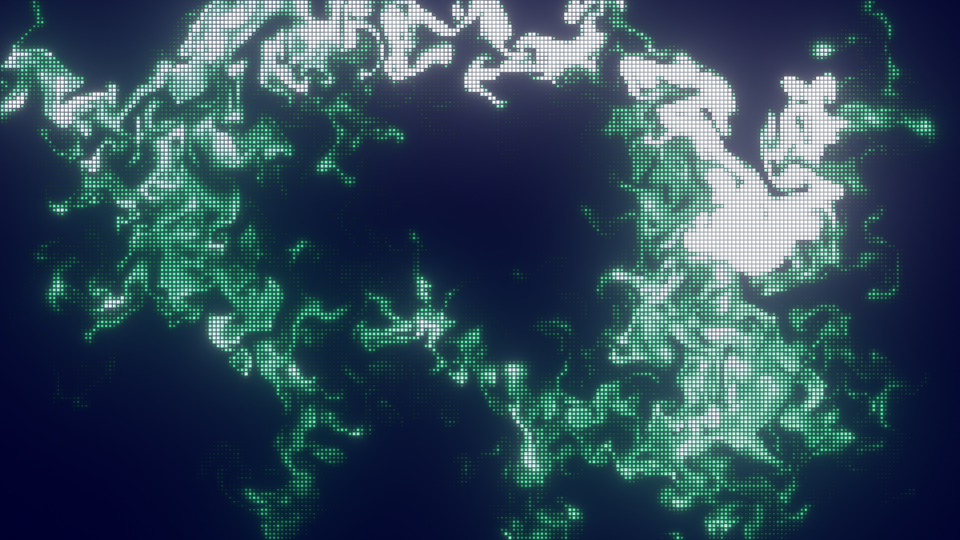
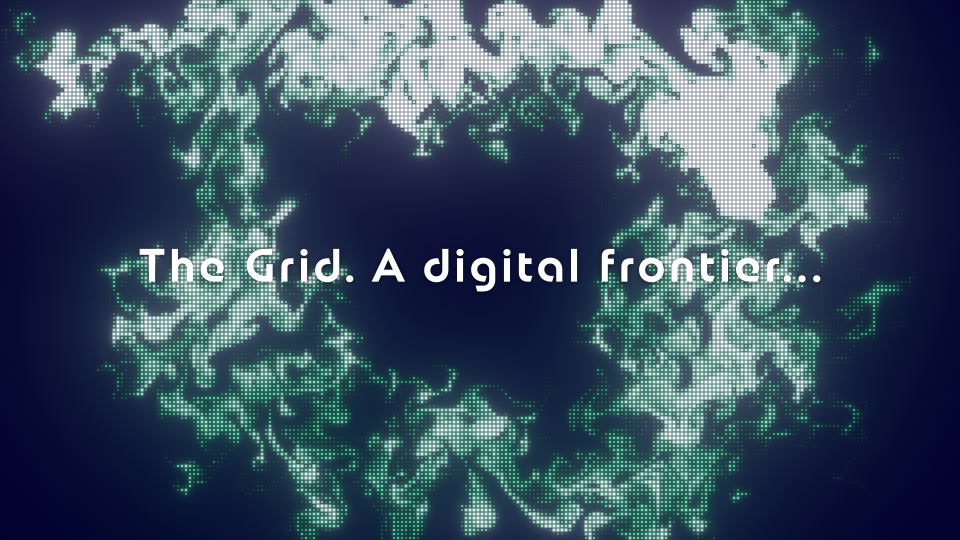
Replace the Grid style render

diff --git a/index.html b/index.html
@@ -248,7 +248,7 @@
                 <figcaption>A burst of dust as a text layer slams down</figcaption>
             </figure>
             <figure>
-                <img src="images/grid.png" alt="Swirling smoke drawn as a grid of small glowing green squares on deep blue" loading="lazy">
+                <img src="images/grid.png" alt="Swirling smoke drawn as a grid of small glowing green squares on deep blue, around the words The Grid. A digital frontier..." loading="lazy">
                 <figcaption>Grid style, Phosphor palette</figcaption>
             </figure>
             <figure>
